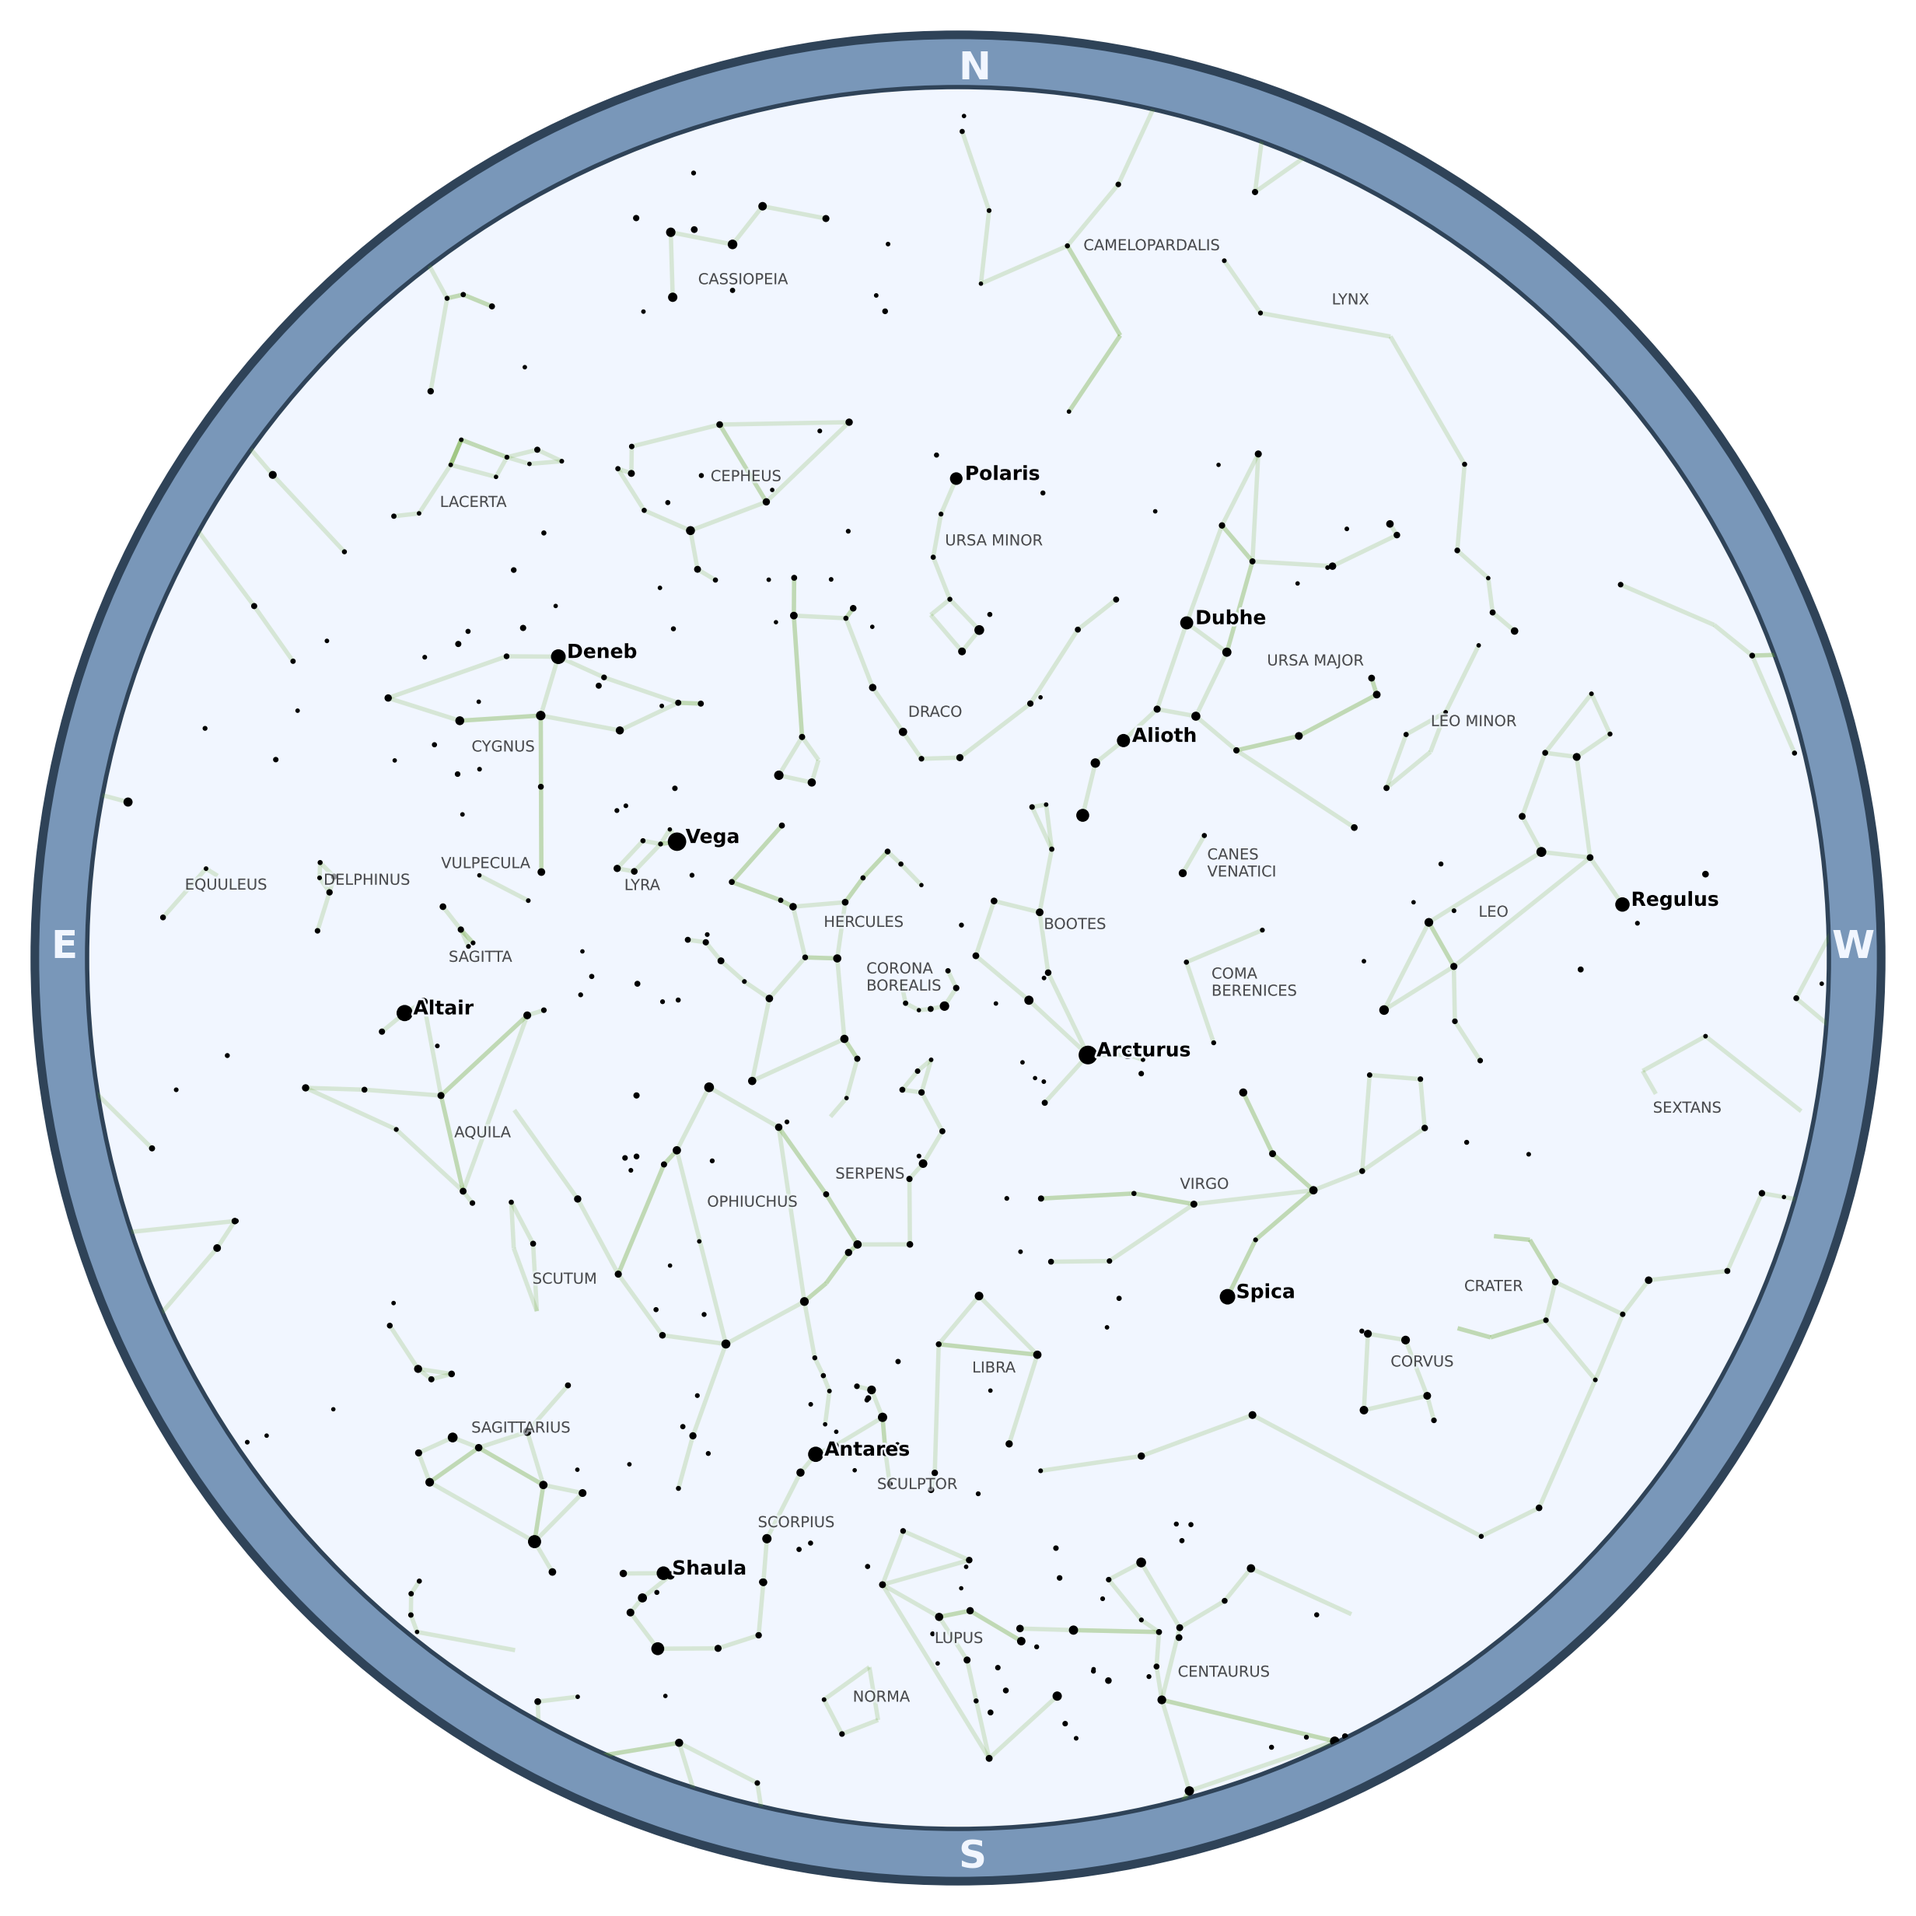
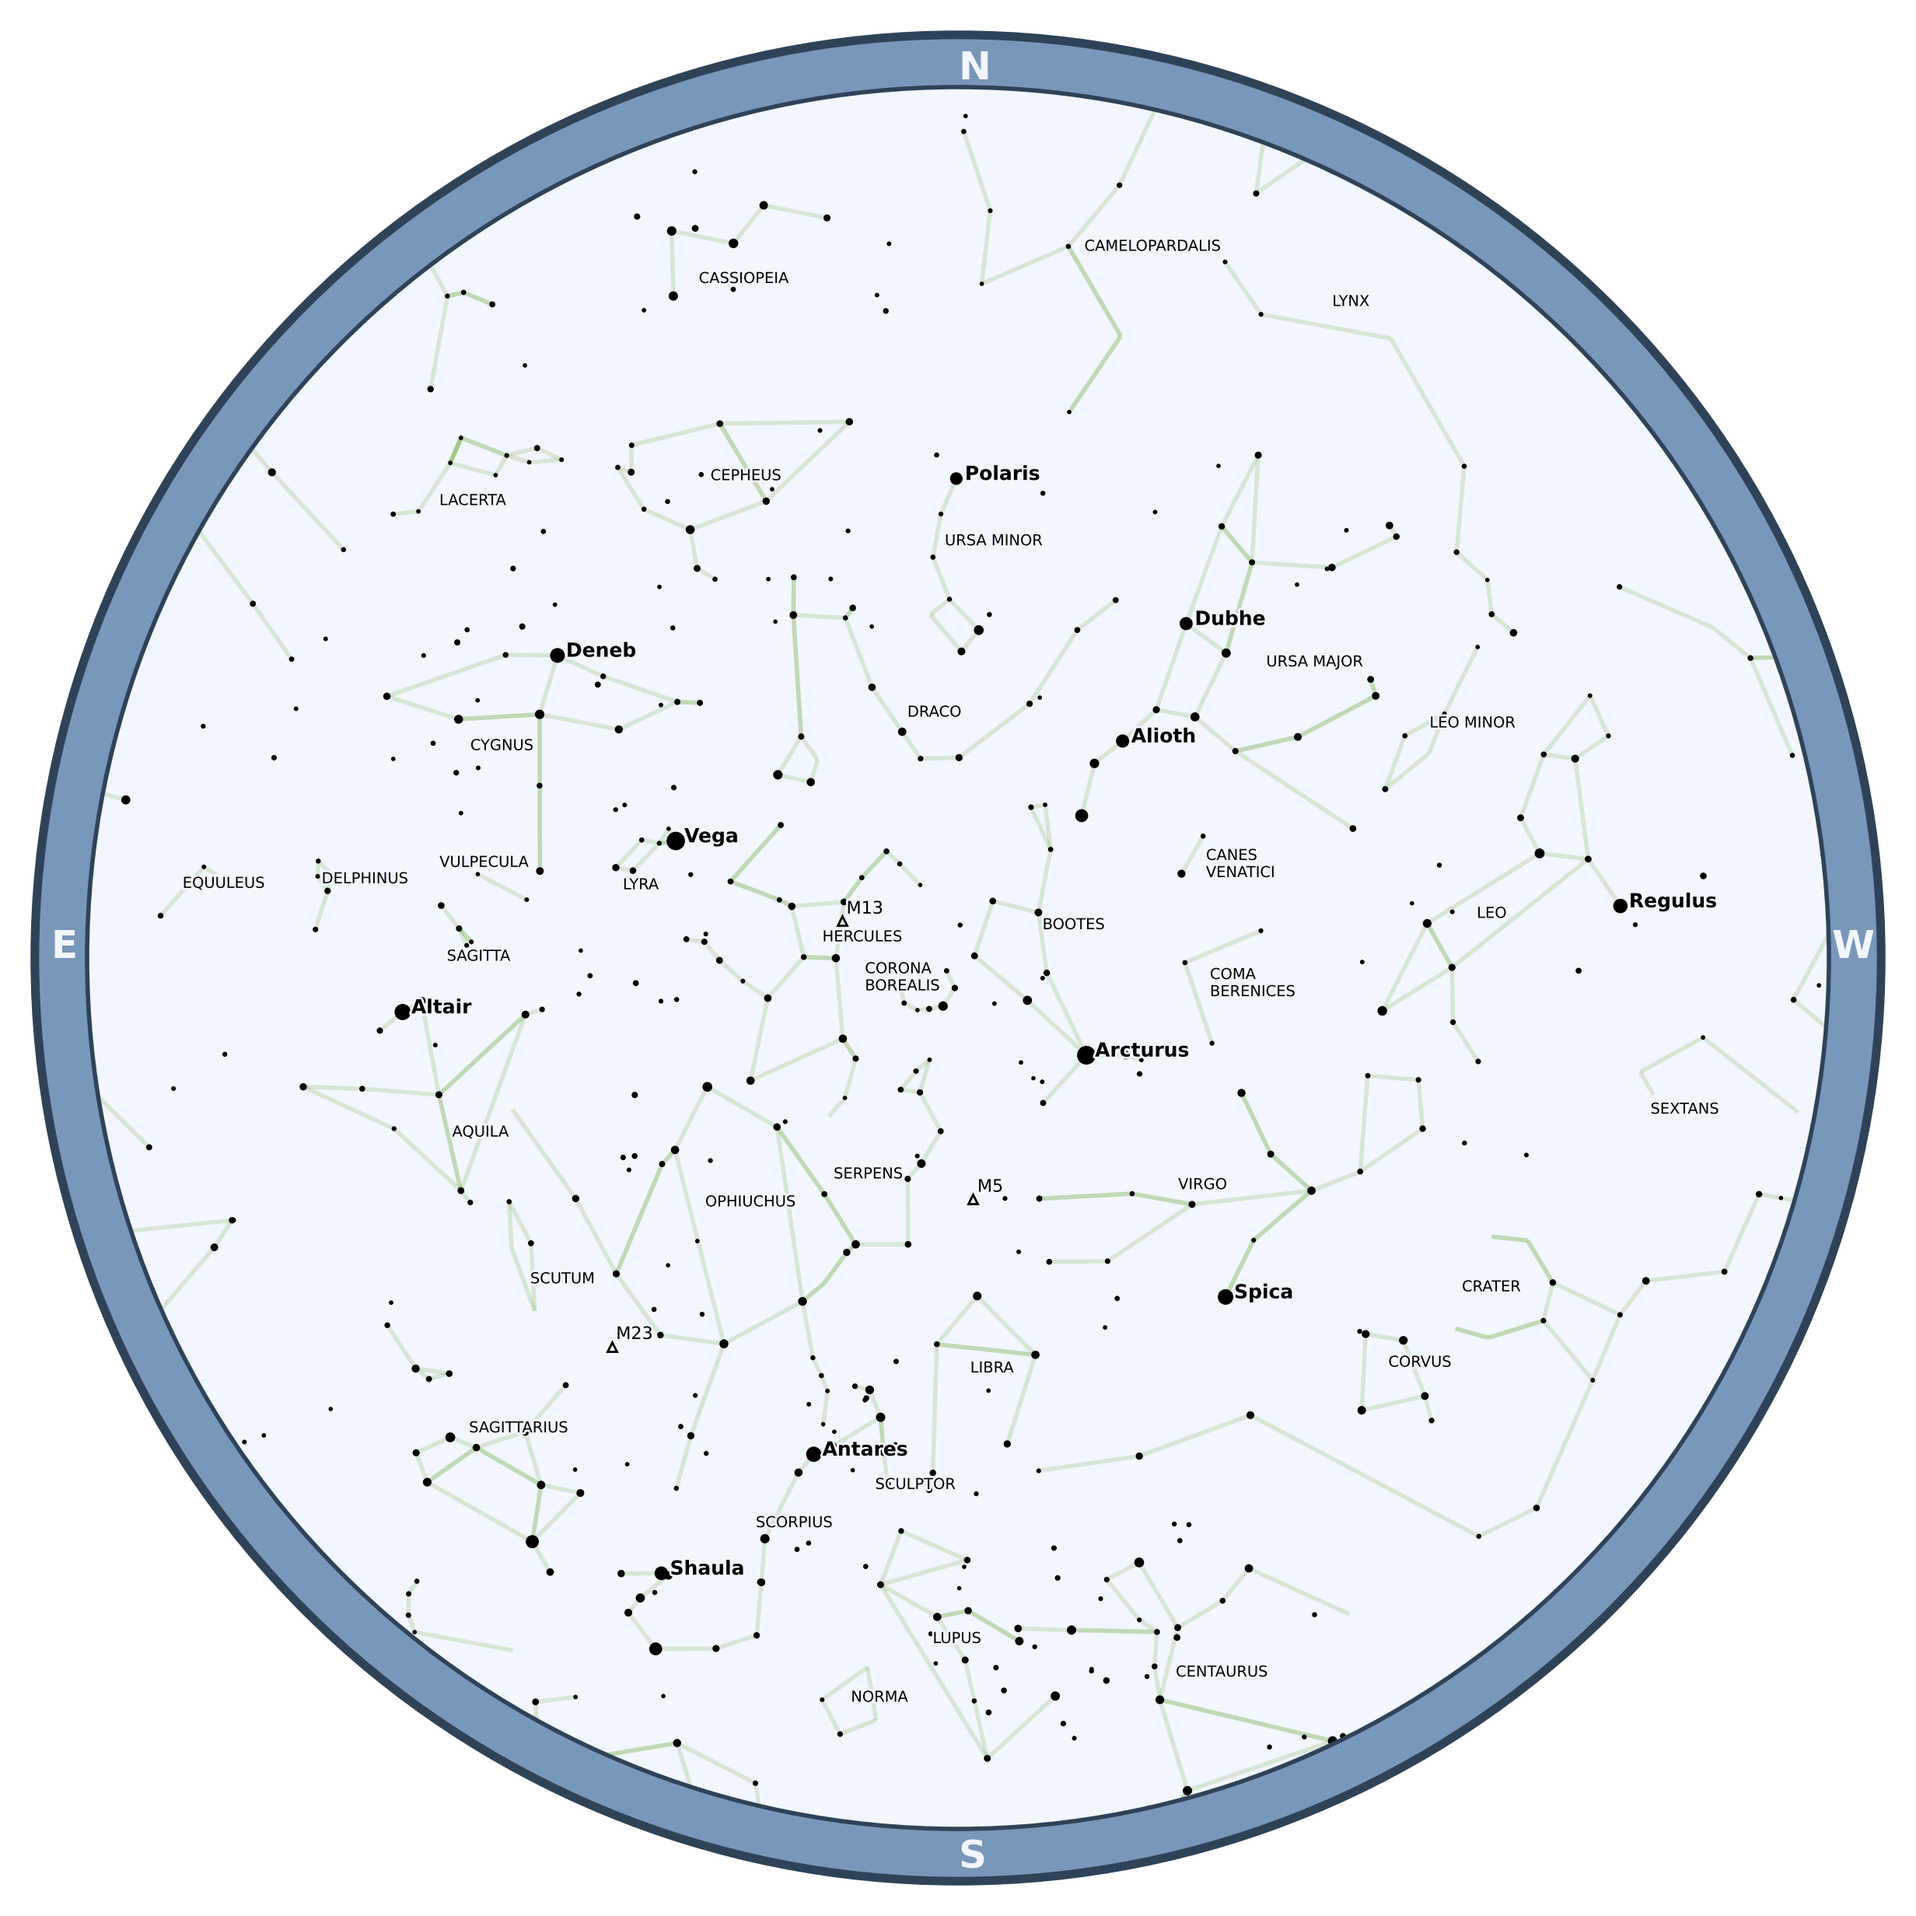
refresh examples and more base objects

diff --git a/src/starplot/styles.py b/src/starplot/styles.py
@@ -42,6 +42,7 @@ class MarkerStyle(BaseModel):
     symbol: MarkerSymbolEnum = MarkerSymbolEnum.POINT
     size: int = 4
     fill: FillStyleEnum = FillStyleEnum.NONE
+    alpha: float = 1.0
     visible: bool = True
 
     @property
@@ -51,6 +52,7 @@ class MarkerStyle(BaseModel):
             marker=self.symbol,
             markersize=self.size,
             fillstyle=self.fill,
+            alpha=self.alpha,
         )
 
 
@@ -166,6 +168,16 @@ RED = PlotStyle(
         marker=MarkerStyle(color="#7a0000"),
         label=LabelStyle(font_color="#7a0000"),
     ),
+    # DSOs
+    dso=ObjectStyle(
+        marker=MarkerStyle(
+            color="#7a0000",
+            symbol=MarkerSymbolEnum.SQUARE,
+            size=4,
+            fill=FillStyleEnum.FULL,
+        ),
+        label=LabelStyle(font_color="#7a0000"),
+    ),
     # Constellations
     constellation=PathStyle(
         line=LineStyle(width=2, color="#ff8e8e", alpha=0.2),
@@ -186,6 +198,22 @@ CHALK = PlotStyle(
         marker=MarkerStyle(color="#88c0d0"),
         label=LabelStyle(
             font_size=9, font_color="#88c0d0", font_weight=FontWeightEnum.BOLD
+        ),
+    ),
+    # DSOs
+    dso=ObjectStyle(
+        marker=MarkerStyle(
+            color="rgb(230, 204, 147)",
+            symbol=MarkerSymbolEnum.TRIANGLE,
+            size=4,
+            fill=FillStyleEnum.FULL,
+            alpha=0.46,
+        ),
+        label=LabelStyle(
+            font_size=7,
+            font_color="rgb(230, 204, 147)",
+            font_weight=FontWeightEnum.LIGHT,
+            font_alpha=0.6,
         ),
     ),
     # Constellations

diff --git a/example.py b/example.py
@@ -12,7 +12,7 @@ extra = [
         name="Mel 111",
         ra=12.36,
         dec=25.85,
-        style={"marker": {"size": 10, "symbol": "*", "fill": "full"}},
+        style={"marker": {"size": 10, "symbol": "*", "fill": "full", "color": "red"}},
     ),
 ]
 
@@ -28,5 +28,27 @@ create_star_chart(
     extra_objects=extra,
 )
 
+
+def create_style_examples():
+    styles = {
+        "blue": BLUE,
+        "grayscale": GRAYSCALE,
+        "chalk": CHALK,
+        "red": RED,
+    }
+    for name, style in styles.items():
+        create_star_chart(
+            lat=32.97,
+            lon=-117.038611,
+            dt=datetime.now().replace(hour=22),
+            # dt=datetime(2023, 12, 28).replace(hour=22),
+            # dt=datetime(2023, 2, 8),
+            tz_identifier="America/Los_Angeles",
+            filename=f"examples/starchart-{name}.png",
+            style=style,
+        )
+
+
+# create_style_examples()
 
 print(f"Total run time: {time.time() - start_time}")

diff --git a/src/starplot/charts.py b/src/starplot/charts.py
@@ -16,20 +16,11 @@ from starplot.constellations import (
     create_projected_constellation_lines,
     labels as conlabels,
 )
-from starplot.dsos import messier
+from starplot.dsos import DSO_BASE, messier
 from starplot.stars import get_star_data, star_names
 from starplot.styles import PlotStyle, GRAYSCALE
 from starplot.utils import in_circle
 from starplot.models import SkyObject
-
-DSO_BASE = [
-    "M5",
-    "M13",
-    "M23",
-    "M42",
-    "M44",
-    "M45",
-]
 
 
 def get_position(lat: float, lon: float, dt: datetime, tz: str = "UTC"):
@@ -47,7 +38,7 @@ def create_star_chart(
     tz_identifier: str = "UTC",
     style: PlotStyle = GRAYSCALE,
     limiting_magnitude: float = 4.6,
-    limiting_magnitude_labels: float = 2,
+    limiting_magnitude_labels: float = 2.1,
     figure_size: int = 16,
     figure_dpi: int = 200,
     adjust_text: bool = True,

diff --git a/src/starplot/dsos.py b/src/starplot/dsos.py
@@ -1,4 +1,4 @@
-# TODO : trim base dso list to avoid too many labels on starchart
+
 messier = {
     "M1": (5.575547, 22.014472),
     "M2": (21.557503, 0.823306),
@@ -110,3 +110,19 @@ messier = {
     "M109": (11.959994, 53.374528),
     "M110": (0.6728, 41.685306),
 }
+
+DSO_BASE = [
+    "M5",
+    "M13",
+    "M23",
+    "M31",
+    "M42",
+    "M44",
+    "M45",
+    "M47",
+    "M51",
+    "M55",
+    "M83",
+    "M93",
+    "M104",
+]

diff --git a/src/starplot/stars.py b/src/starplot/stars.py
@@ -23,6 +23,7 @@ star_names = {
     24608: "Capella",
     36850: "Castor",
     102098: "Deneb",
+    3419: "Diphda",
     54061: "Dubhe",
     25428: "Elnath",
     113368: "Fomalhaut",
@@ -82,7 +83,7 @@ allstars = {
     "Deneb": 102098,  # --
     "Deneb Kaitos": 3419,
     "Denebola": 57632,
-    "Diphda": 3419,
+    "Diphda": 3419, # --
     "Dschubba": 78401,
     "Dubhe": 54061,  # --
     "Durre Menthor": 8102,
